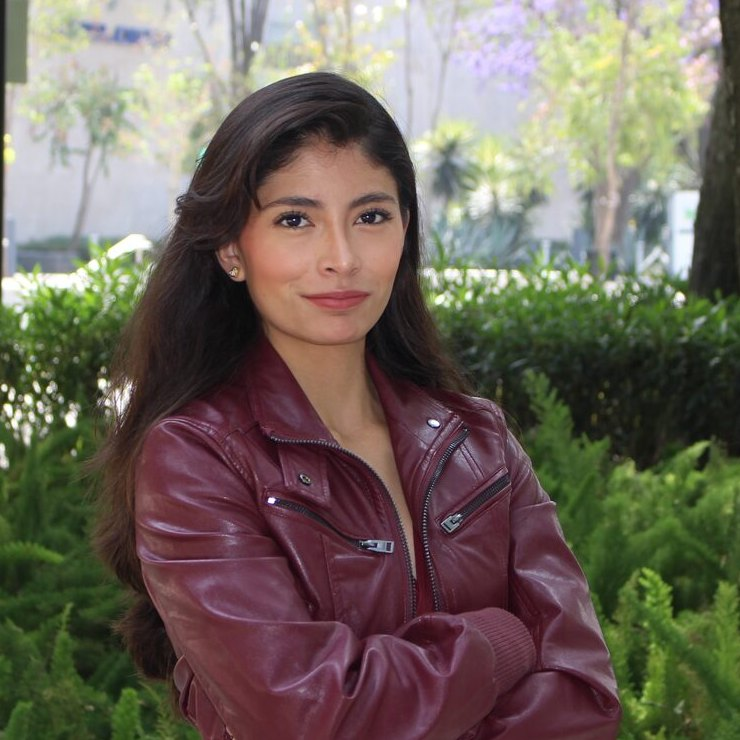
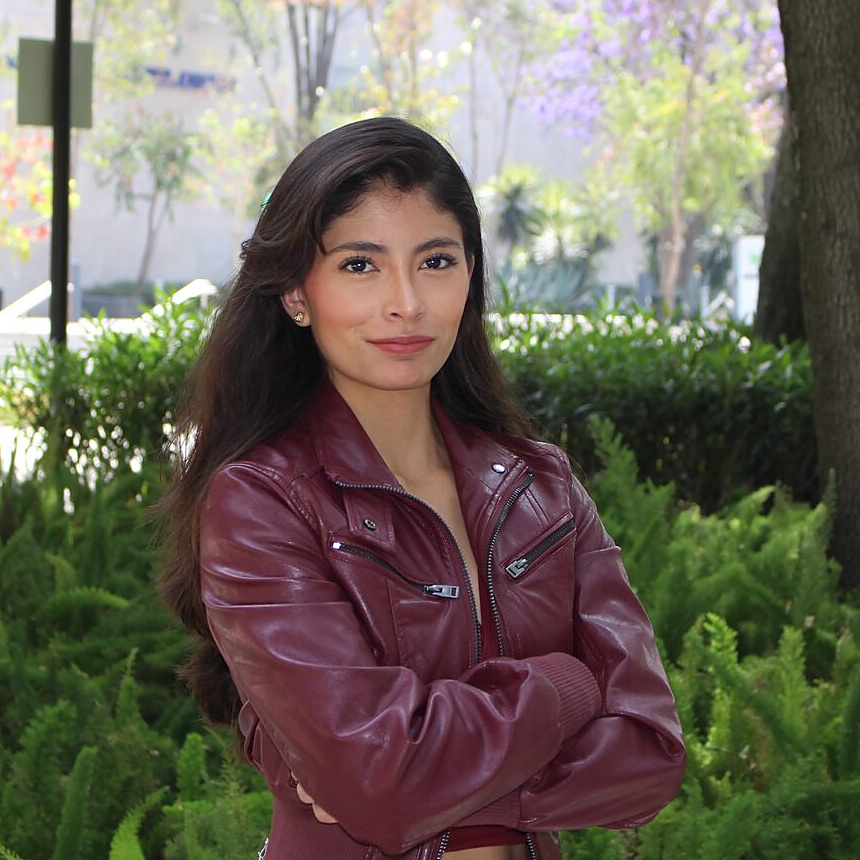
Home proposal: stat cards option A (short title, theme-colored context, one detail line); sharper 1:1 contact photo
Claude-Session: https://claude.ai/code/session_013PLVwAYXXSpaCBH4ev7ukr

diff --git a/_pages/de/about.md b/_pages/de/about.md
@@ -143,6 +143,10 @@ latest_posts:
 
   /* ---- Home: a little space before "See all projects" ---- */
   #featured-projects + div + p { margin-top: 1.1rem; }
+
+  /* ---- Home: stat cards, option A ---- */
+  .ab-stat .ab-ctx { display: block; font-size: .82rem; font-weight: 600; color: var(--global-theme-color); margin-top: .2rem; }
+  .ab-stat .ab-small { margin-top: .1rem !important; }
 </style>
 
 <section class="hero">
@@ -152,10 +156,10 @@ latest_posts:
     <p class="ab-hook">Ich mache aus technischen Konzepten funktionierende Systeme — von Platine und Firmware bis zu Regelung, Automatisierung und Test.</p>
     <p>Mechatronik-Studentin im deutsch-mexikanischen DHIK-Doppelabschluss (<em>Tec de Monterrey</em> · <em>Hochschule Zittau/Görlitz</em>), wohnhaft in Sachsen. Ich habe das 30-köpfige Team <a href="https://www.instagram.com/ecovoltccm/">EcoVolt CCM</a> beim Shell Eco-marathon geleitet, seine Telemetrie aufgebaut, in den <a href="https://global.mit.edu/news-stories/nanolab-workshop-builds-student-skills-and-strengthens-international-ties/">Reinräumen von MIT.nano</a> Bauelemente gefertigt und kamerageführte Roboter sowie digitale Zwillinge entwickelt.</p>
 <div class="ab-stats">
-  <div class="ab-stat"><span class="ab-big">🏆 1. &amp; 2. Platz</span><span class="ab-small">Data &amp; Telemetry Award<br>Shell Eco-marathon 2025 / 2026</span></div>
-  <div class="ab-stat"><span class="ab-big">👥 Teamkapitänin · EcoVolt CCM</span><span class="ab-small">2025–26 · Leitung von ca. 30 Mitgliedern<br>E-Fahrzeug mit ca. 200 km/kWh bei ca. 28 km/h<br>Telemetrie-Platinen und CAN-Firmware entwickelt</span></div>
-  <div class="ab-stat"><span class="ab-big">🔬 MIT.nano</span><span class="ab-small">Halbleiterfertigung im Reinraum</span></div>
-  <div class="ab-stat"><span class="ab-big">📄 IEEE-Paper</span><span class="ab-small">Erstautorin, SAIBOT 2026 · angenommen</span></div>
+  <div class="ab-stat"><span class="ab-big">🏆 1. &amp; 2. Platz</span><span class="ab-ctx">Data &amp; Telemetry Award</span><span class="ab-small">Shell Eco-marathon 2025 · 2026</span></div>
+  <div class="ab-stat"><span class="ab-big">👥 Teamkapitänin</span><span class="ab-ctx">EcoVolt CCM · 2025–26</span><span class="ab-small">ca. 30 Mitglieder · E-Fahrzeug mit ca. 200 km/kWh bei ca. 28 km/h</span></div>
+  <div class="ab-stat"><span class="ab-big">🔬 MIT.nano</span><span class="ab-ctx">Gaststudentin · 10/2025</span><span class="ab-small">Halbleiterfertigung im Reinraum</span></div>
+  <div class="ab-stat"><span class="ab-big">📄 IEEE-Paper</span><span class="ab-ctx">SAIBOT 2026 · angenommen</span><span class="ab-small">Erstautorin · Telemetrie &amp; Energieoptimierung</span></div>
 </div>
 
     <div class="ab-btns">

diff --git a/_pages/about.md b/_pages/about.md
@@ -141,6 +141,10 @@ latest_posts:
 
   /* ---- Home: a little space before "See all projects" ---- */
   #featured-projects + div + p { margin-top: 1.1rem; }
+
+  /* ---- Home: stat cards, option A ---- */
+  .ab-stat .ab-ctx { display: block; font-size: .82rem; font-weight: 600; color: var(--global-theme-color); margin-top: .2rem; }
+  .ab-stat .ab-small { margin-top: .1rem !important; }
 </style>
 
 <section class="hero">
@@ -150,10 +154,10 @@ latest_posts:
     <p class="ab-hook">I turn engineering concepts into working systems — from PCB and firmware to control, automation and testing.</p>
     <p>Mechatronics Engineering student in the German–Mexican DHIK double degree (<em>Tec de Monterrey</em> · <em>Hochschule Zittau/Görlitz</em>), based in Saxony. I led the 30-member <a href="https://www.instagram.com/ecovoltccm/">EcoVolt CCM</a> team at Shell Eco-marathon, built its telemetry, fabricated devices in the <a href="https://global.mit.edu/news-stories/nanolab-workshop-builds-student-skills-and-strengthens-international-ties/">MIT.nano cleanrooms</a> and developed vision-guided robots and digital twins.</p>
 <div class="ab-stats">
-  <div class="ab-stat"><span class="ab-big">🏆 1st &amp; 2nd place</span><span class="ab-small">Data &amp; Telemetry Award<br>Shell Eco-marathon 2025 / 2026</span></div>
-  <div class="ab-stat"><span class="ab-big">👥 Team Captain · EcoVolt CCM</span><span class="ab-small">2025–26 · Led a team of ~30<br>EV with ~200 km/kWh at ~28 km/h<br>Designed the telemetry PCBs and CAN firmware</span></div>
-  <div class="ab-stat"><span class="ab-big">🔬 MIT.nano</span><span class="ab-small">Cleanroom semiconductor fabrication</span></div>
-  <div class="ab-stat"><span class="ab-big">📄 IEEE paper</span><span class="ab-small">First author, SAIBOT 2026 · accepted</span></div>
+  <div class="ab-stat"><span class="ab-big">🏆 1st &amp; 2nd place</span><span class="ab-ctx">Data &amp; Telemetry Award</span><span class="ab-small">Shell Eco-marathon 2025 · 2026</span></div>
+  <div class="ab-stat"><span class="ab-big">👥 Team Captain</span><span class="ab-ctx">EcoVolt CCM · 2025–26</span><span class="ab-small">~30 members · EV with ~200 km/kWh at ~28 km/h</span></div>
+  <div class="ab-stat"><span class="ab-big">🔬 MIT.nano</span><span class="ab-ctx">Visiting student · 10/2025</span><span class="ab-small">Cleanroom semiconductor fabrication</span></div>
+  <div class="ab-stat"><span class="ab-big">📄 IEEE paper</span><span class="ab-ctx">SAIBOT 2026 · accepted</span><span class="ab-small">First author · telemetry &amp; energy optimization</span></div>
 </div>
 
     <div class="ab-btns">
